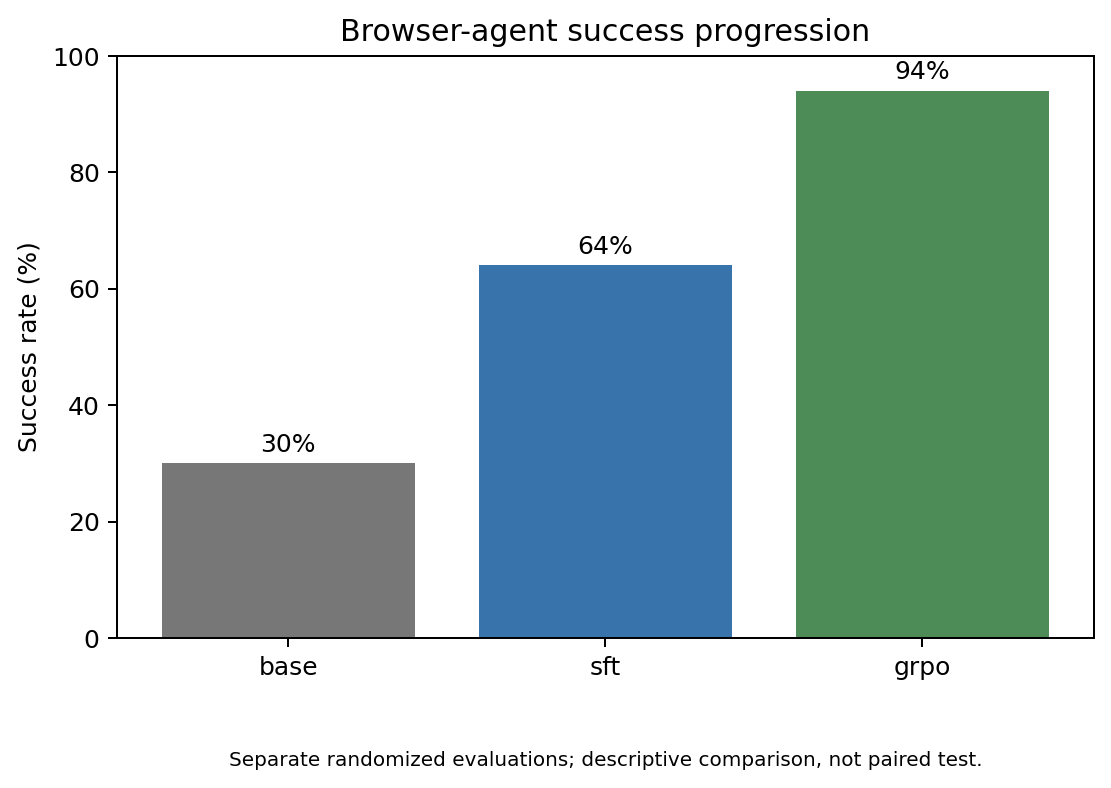
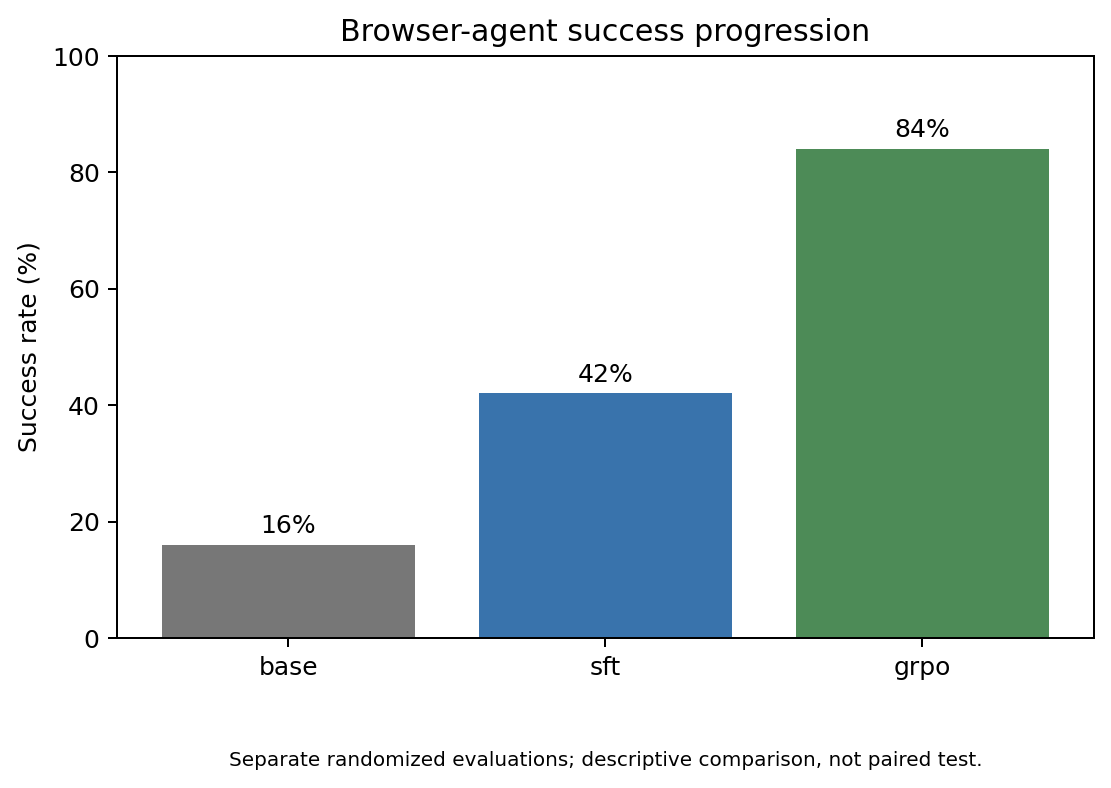
feat(analysis): report exact-match success and ship the article's figures
Article figures now count only exact-match successes (raw reward 1), matching
the published numbers (16% / 42% / 84%). Adds the puzzle-size and training
figures used in the article and drops the unused capability radar.

Changed region(s): [[0.4284, 0.3046, 0.6733, 0.5178], [0.1224, 0.5482, 0.3978, 0.7005], [0.7039, 0.0609, 0.9487, 0.2132]]

diff --git a/src/analysis/artifact_analysis.py b/src/analysis/artifact_analysis.py
@@ -2,7 +2,7 @@ from __future__ import annotations
 
 import json
 import re
-from dataclasses import dataclass
+from dataclasses import dataclass, replace
 from pathlib import Path
 from typing import Any, Mapping, Sequence
 
@@ -39,6 +39,7 @@ class EpisodeRecord:
     success: bool
     total_reward: float
     source_line: int
+    raw_reward: float | None = None
 
 
 @dataclass(frozen=True)
@@ -191,12 +192,48 @@ def _parse_episode(value: Mapping[str, Any], line_number: int) -> EpisodeRecord:
     if not isinstance(steps, list) or not steps:
         raise ArtifactValidationError(f"line {line_number}: steps missing or empty")
     parsed_steps = tuple(_parse_step(step, line_number) for step in steps)
+    final_info = value.get("final_info")
+    task_info = (
+        (final_info.get("raw_info") or {}).get("task_info") or {}
+        if isinstance(final_info, Mapping)
+        else {}
+    )
+    raw_reward = task_info.get("RAW_REWARD_GLOBAL")
     return EpisodeRecord(
         episode_id=episode_id,
         steps=parsed_steps,
         success=value.get("success") is True,
         total_reward=float(value.get("total_reward", 0.0)),
         source_line=line_number,
+        raw_reward=float(raw_reward) if raw_reward is not None else None,
+    )
+
+
+def strict_success_records(records: Sequence[EpisodeRecord]) -> tuple[EpisodeRecord, ...]:
+    """Re-score episodes as exact matches: MiniWoB raw reward == 1.
+
+    The env wrapper counts any positive raw reward (partial credit) as success.
+    """
+    strict = []
+    for record in records:
+        if record.raw_reward is None:
+            raise ArtifactValidationError(f"episode {record.episode_id}: RAW_REWARD_GLOBAL missing")
+        exact = record.raw_reward == 1.0
+        strict.append(replace(record, success=exact, total_reward=1.0 if exact else 0.0))
+    return tuple(strict)
+
+
+def metric_from_records(records: Sequence[EpisodeRecord], stage: str, source_path: Path) -> StageMetric:
+    count = len(records)
+    if count == 0:
+        raise ArtifactValidationError(f"no episode records for {stage}")
+    return StageMetric(
+        stage=stage,
+        success_rate=sum(record.success for record in records) / count,
+        average_reward=sum(record.total_reward for record in records) / count,
+        average_steps=sum(len(record.steps) for record in records) / count,
+        source_path=source_path,
+        evidence_type="strict_exact_match",
     )
 
 

diff --git a/scripts/build_article_analysis.py b/scripts/build_article_analysis.py
@@ -19,7 +19,9 @@ from src.analysis.artifact_analysis import (
     load_manifest,
     load_sft_demonstrations,
     load_stage_metrics,
+    metric_from_records,
     reconcile_grpo_metrics,
+    strict_success_records,
     summarize_failure_behavior,
     summarize_final_episodes,
     validate_episode_records,
@@ -104,6 +106,22 @@ def run_analysis(
     validation = validate_episode_records(records, grpo_episodes_path, expected_count=50)
     if not reconcile_grpo_metrics(records, metrics["grpo"]):
         raise ArtifactValidationError("final GRPO aggregate does not reconcile with per-episode records")
+    if controls_root is not None:
+        # Report exact-match success (raw reward == 1); the env counts partial credit as success.
+        episode_paths = {
+            "base": results / "grpo_eval_step_base_control_50_bracketfix_episodes.jsonl",
+            "sft": results / "grpo_eval_step_sft_control_50_episodes.jsonl",
+            "grpo": grpo_episodes_path,
+        }
+        strict = {
+            stage: strict_success_records(load_final_grpo_episodes(path))
+            for stage, path in episode_paths.items()
+        }
+        metrics = {
+            stage: metric_from_records(stage_records, stage, episode_paths[stage])
+            for stage, stage_records in strict.items()
+        }
+        records = strict["grpo"]
     load_sft_demonstrations(sft_trajectories_path, limit=1)
     load_manifest(sft_manifest_path)
     load_manifest(grpo_manifest_path)

diff --git a/tests/analysis/test_artifact_analysis.py b/tests/analysis/test_artifact_analysis.py
@@ -17,6 +17,8 @@ from src.analysis.artifact_analysis import (
     summarize_failure_behavior,
     EpisodeRecord,
     EpisodeStep,
+    metric_from_records,
+    strict_success_records,
 )
 
 
@@ -185,3 +187,26 @@ def _classification_fixture():
         record(5, ("click('18')", "click('33')")),
         record(6, ("click('18')", "click('33')")),
     )
+
+
+def test_strict_success_counts_only_exact_matches(tmp_path):
+    step = {
+        "instruction": "Select A, B and click Submit.",
+        "observation": "[21] checkbox 'A'",
+        "action": "click('21')",
+        "reward": 1,
+        "done": True,
+        "policy_diagnostics": {"raw_completion": "", "parsed_action": "click('21')"},
+    }
+    lines = [
+        {"episode_id": f"ep{i}", "steps": [step], "success": True, "total_reward": 1,
+         "final_info": {"raw_info": {"task_info": {"RAW_REWARD_GLOBAL": raw}}}}
+        for i, raw in enumerate([1, 0.5])
+    ]
+    path = tmp_path / "episodes.jsonl"
+    path.write_text("\n".join(json.dumps(line) for line in lines), encoding="utf-8")
+
+    strict = strict_success_records(load_final_grpo_episodes(path))
+
+    assert [record.success for record in strict] == [True, False]
+    assert metric_from_records(strict, "grpo", path).success_rate == 0.5

diff --git a/figures/article_analysis/README.md b/figures/article_analysis/README.md
@@ -4,12 +4,14 @@ Tracked publication figures generated from existing artifacts only.
 
 | Figure | Meaning | Source |
 | --- | --- | --- |
-| `figure1_stage_progression.png` | Base 30% → SFT 64% → GRPO 94%, one evaluator, 50 episodes each | `artifacts/2026-10-22-same-evaluator-controls/results/` |
-| `figure5_final_episode_summary.png` | 50 GRPO re-score episodes; 47 success / 3 failure | Re-score per-episode JSONL |
-| `figure6_final_episode_failure_modes.png` | Three failures: 0 no Submit, 1 premature Submit, 2 wrong selection | Re-score per-episode JSONL |
-| `figure7_capability_radar.png` | Shared measured capability profile with caveats | Same-evaluator stage metrics |
+| `figure1_stage_progression.png` | Exact-match success: Base 16% to SFT 42% to GRPO 84%, one evaluator, 50 episodes each | `artifacts/2026-10-22-same-evaluator-controls/results/` |
+| `figure5_final_episode_summary.png` | 50 GRPO re-score episodes; 42 exact success / 8 failure | Re-score per-episode JSONL |
+| `figure6_final_episode_failure_modes.png` | Eight failures: 0 no Submit, 6 premature Submit, 2 wrong selection | Re-score per-episode JSONL |
+| `figure_success_by_puzzle_size.png` | Exact-match success by number of boxes to check, per stage | Per-episode evaluation records |
+| `figure_grpo_training.png` | GRPO training dynamics over the 20 updates | GRPO training log |
 
-Generated by `scripts/build_article_analysis.py` (default `--controls-root`).
+Figures 1, 5 and 6 are generated by `scripts/build_article_analysis.py` (default `--controls-root`).
+The puzzle-size and training figures were drawn for the article and have no generating script here.
 Runtime reports, captions, normalized JSON, and schema-validation outputs remain
 under ignored `results/article_analysis/`.
 

diff --git a/README.md b/README.md
@@ -104,8 +104,7 @@ are descriptive rather than paired.
 
 ![Success by training stage](figures/article_analysis/figure1_stage_progression.png)
 
-*Success by training stage under the environment's default (partial-credit) criterion. Exact-match
-rates for the same episodes are in the table above.*
+*Exact-match success by training stage, 50 episodes each, scored by one evaluator.*
 
 What the traces show:
 
